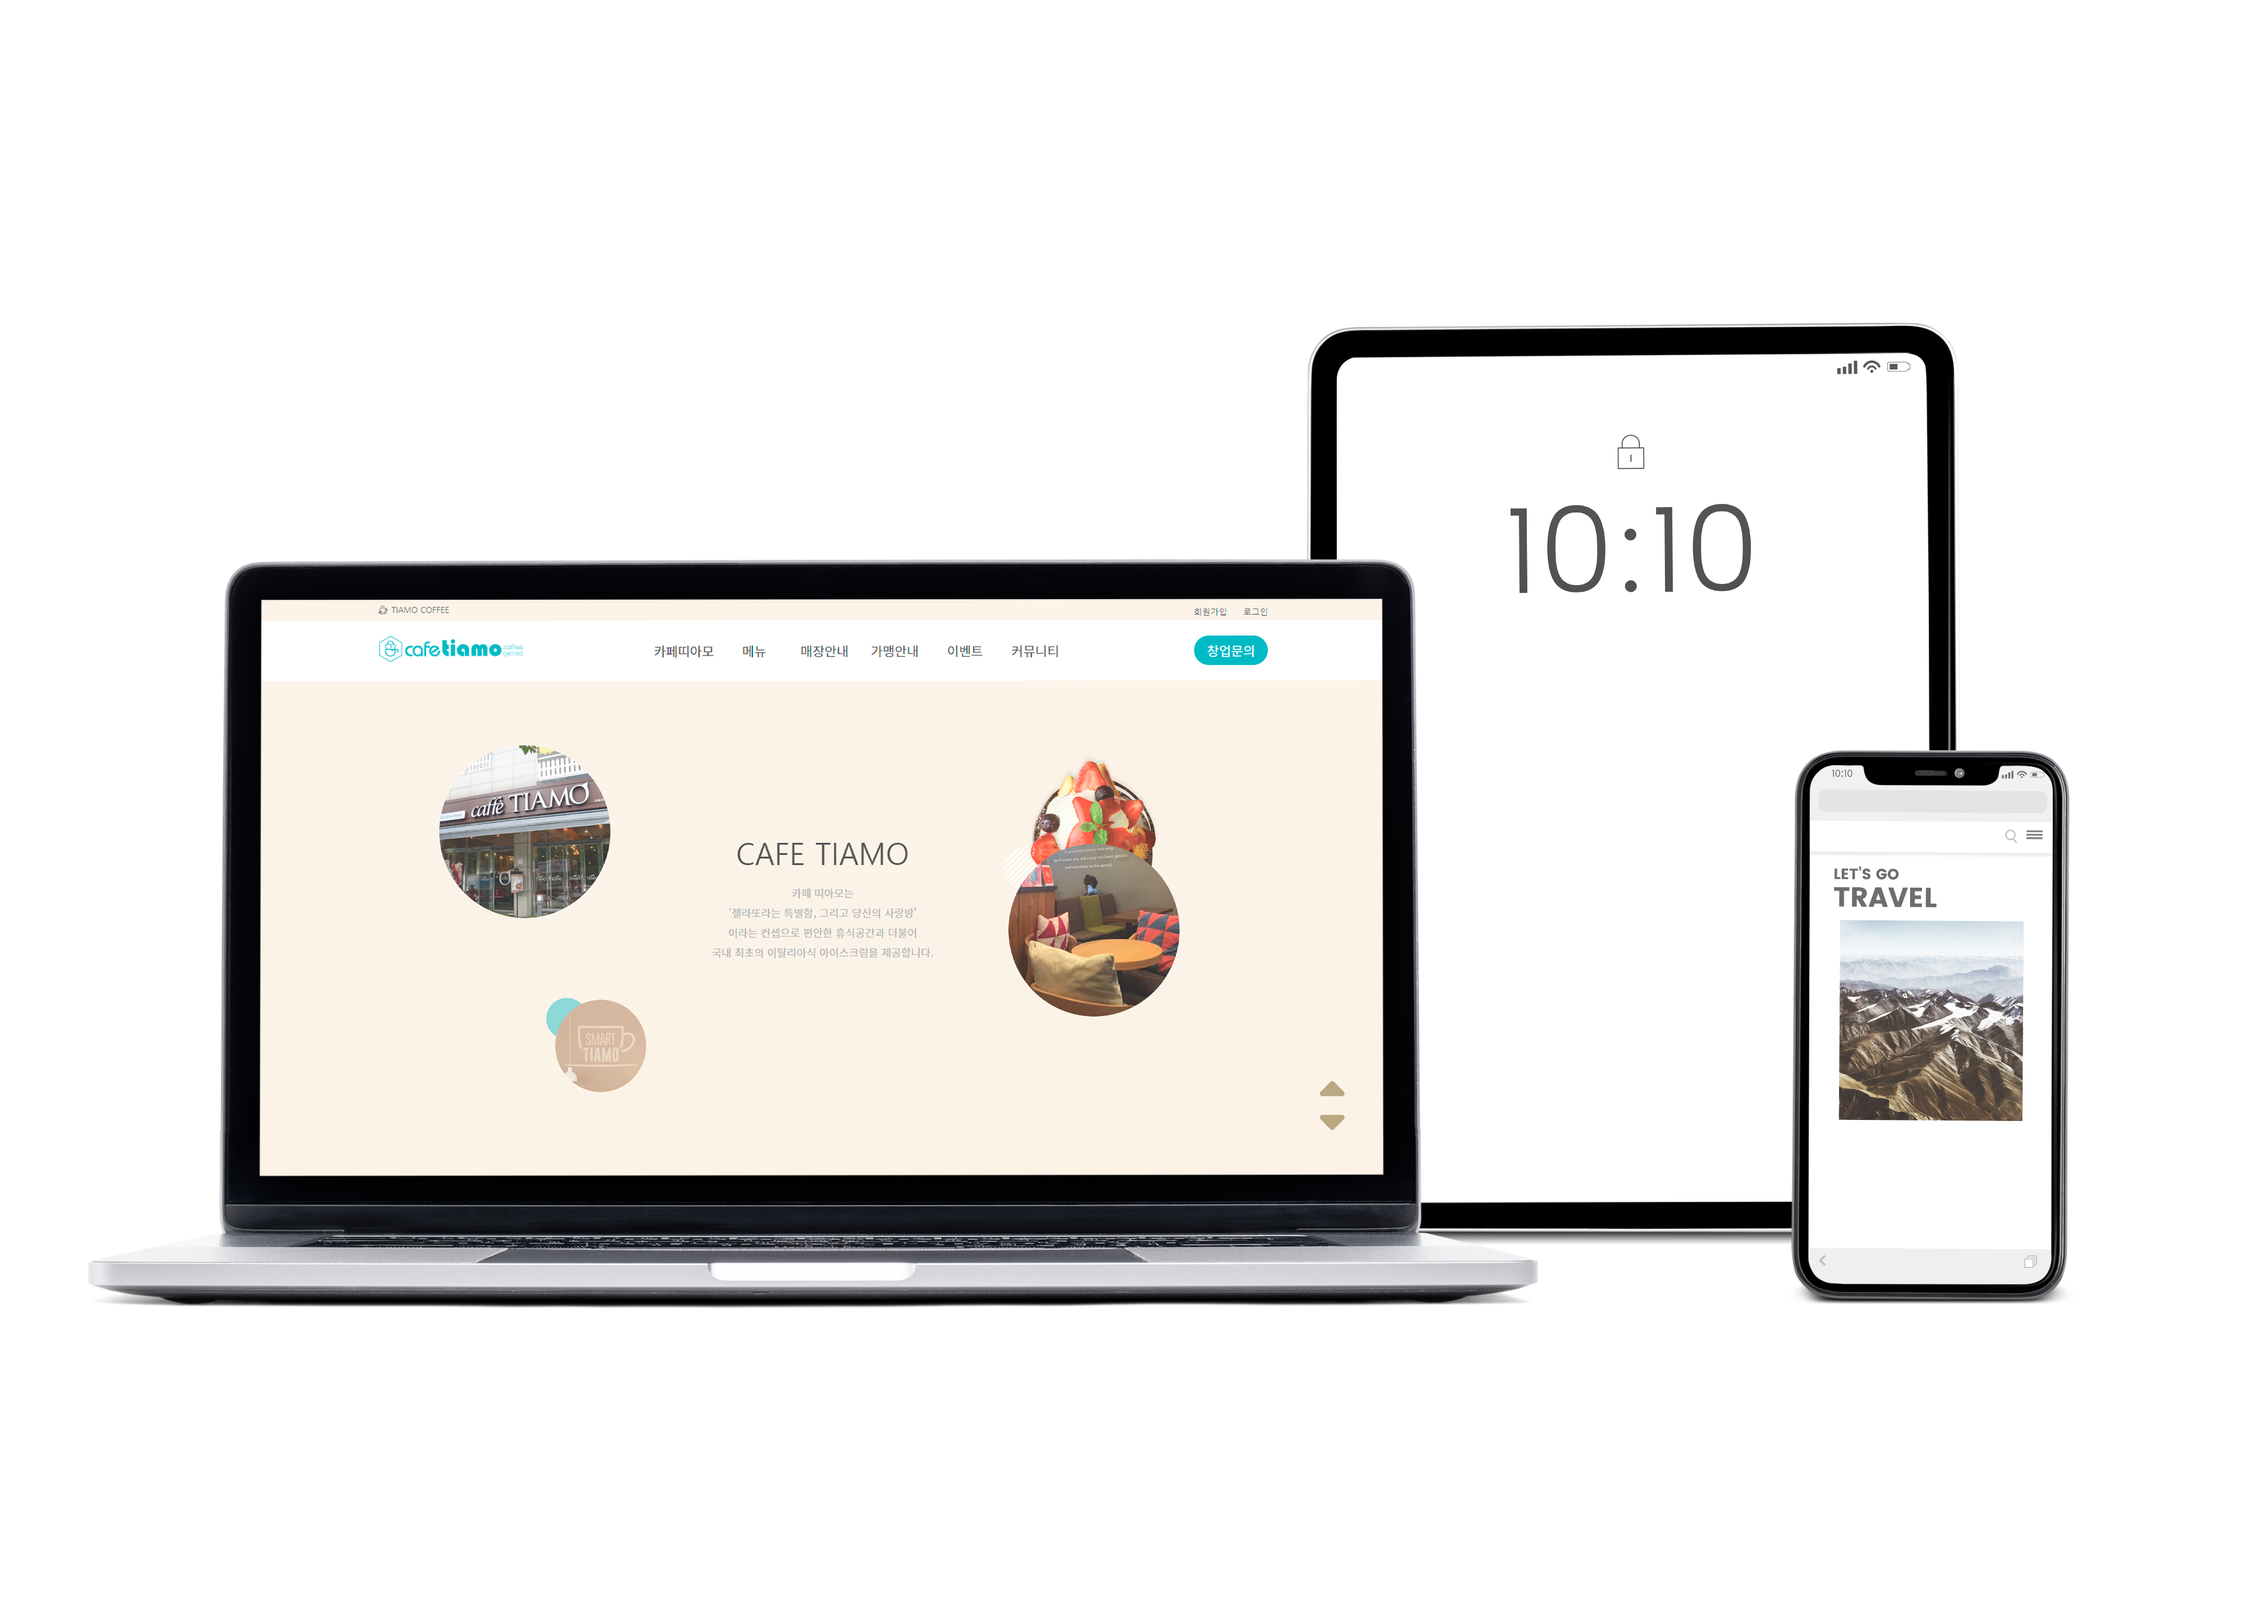
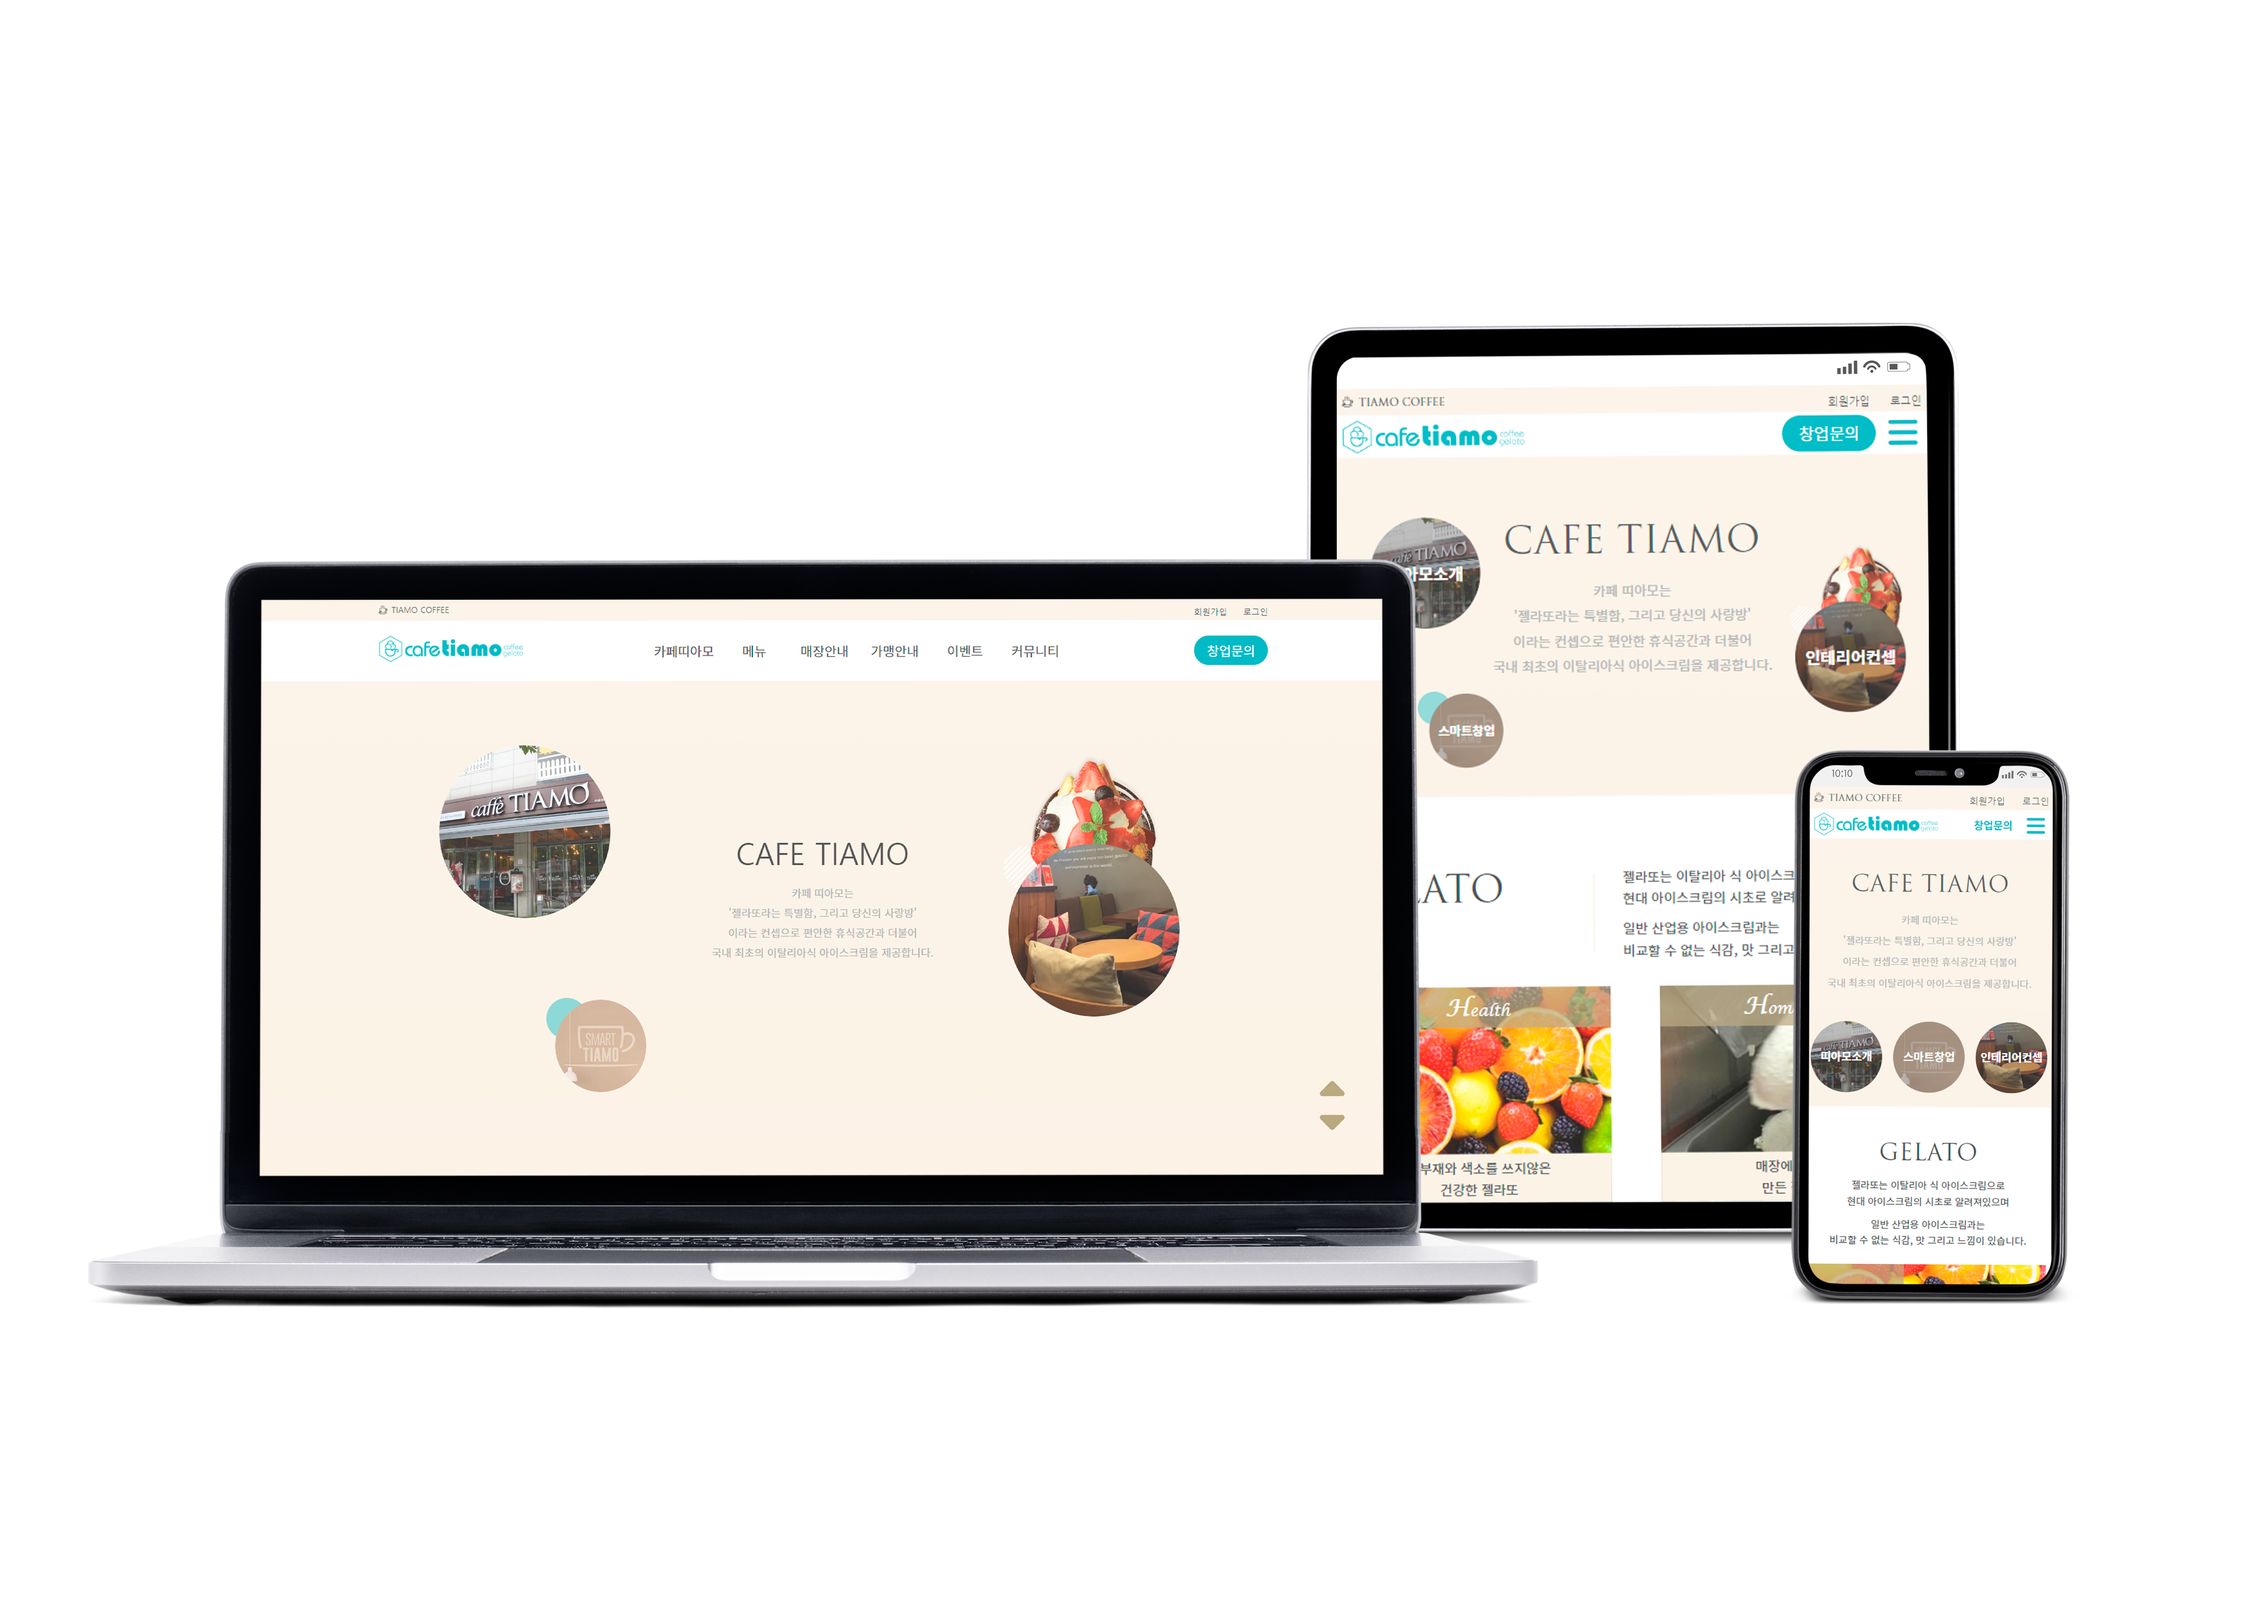
221222_수정

diff --git a/common_sub.css b/common_sub.css
@@ -1,42 +1,26 @@
 @charset 'utf-8';
-@import url(./my_reset.css);
-
-@font-face {
-  font-family: "NanumSquareNeo";
-  src: url(./font/NanumSquareNeo-Variable.woff);
-  font-weight: normal;
-  font-style: normal;
-}
-
-:root {
-  font-family: "NanumSquareNeo";
-  --h: "MyLotteBold";
-  font-weight: normal;
-  font-style: normal;
-  font-size: 16px;
-  color: #333;
-  --m1: #3d91cf;
-  --m2: #f79521;
-  --s2: #edb071;
-  --m3: #974998;
-  --s3: #c390be;
-  --m4: #26ad49;
-  --s4: #84d194;
-  --gray: #ababab;
-  --detailimg: #e0e0e0;
-}
 
 .subpage {
-  position: absolute;
-  top: 200vh;
-  left: 50%;
-  transform: translateX(-50%);
-  width: 90%;
+  display: none;
+  position: fixed;
+  top: 0;
+  width: 100%;
   z-index: 700;
-  background-color: white;
-  overflow: hidden;
+  background-color: rgba(0, 0, 0, 0.8);
+}
+.subpage.on {
+  display: block;
 }
 .subpage .sub {
+  display: none;
+  margin: auto;
+  width: 90%;
+  height: 100vh;
+  background-color: white;
+  overflow: scroll;
+}
+
+.subpage .sub::-webkit-scrollbar {
   display: none;
 }
 .subpage .sub.on {
@@ -91,7 +75,7 @@
   background-repeat: no-repeat;
   border-radius: 30% 70% 70% 30% / 30% 30% 70% 70%;
   animation: rad-move 30s linear infinite;
-  z-index: -1;
+  z-index: 1;
 }
 .subpage .sub_mockup > div:nth-of-type(2) {
   /* border: 1px solid red; */
@@ -100,6 +84,7 @@
   overflow: hidden;
   padding-top: 19%;
   position: relative;
+  z-index: 2;
 }
 .subpage .sub_mockup > div:nth-of-type(2) > img {
   width: 100%;
@@ -108,27 +93,34 @@
   left: 0;
 }
 .subpage .sub_keyword {
-  display: flex;
+  text-align: right;
+  position: absolute;
+  left: 28%;
+  bottom: 15%;
+  z-index: 2;
 }
 .subpage .sub_keyword p {
-  border: 1px solid var(--s3);
+  /* border: 1px solid var(--s3); */
   border-radius: 50px;
   padding: 0.5rem 1rem;
   color: var(--m3);
-  margin: 0 0.5rem;
+  line-height: 20px;
+  font-size: 1.25rem;
 }
 .subpage .sub_btns {
   position: absolute;
-  top: 50%;
+  top: 45%;
   right: 25%;
   transform: translateY(-50%);
   text-align: center;
 }
 .subpage .sub_btns > div {
+  /* border: 1px solid red; */
   padding: 0.35rem 0;
 }
 .subpage .sub_btns > div > a {
   display: inline-block;
+  width: 100%;
   background-color: var(--m3);
   color: white;
   padding: 0.6rem 1.25rem;
@@ -499,13 +491,13 @@
   width: 7vw;
   height: 7vw;
   top: 10%;
-  left: 57%;
+  left: 55%;
   background-color: var(--s3);
   background-size: 1000%;
   background-repeat: no-repeat;
   border-radius: 30% 70% 70% 30% / 30% 30% 70% 70%;
   animation: rad-move 30s linear infinite;
-  z-index: -1;
+  z-index: 2;
 }
 .subpage #sub2_text li:last-of-type p:nth-of-type(2)::before {
   background-color: #f44502;

diff --git a/common2.js b/common2.js
@@ -52,8 +52,8 @@ window.addEventListener("scroll", function (e) {
   if (scrollTop >= 0 && scrollTop < ht * 1) {
     $bubble1.style.cssText = `  top: 9vw;
     left: 40vw; transition: 0.5s;`;
-    $bubble2.style.cssText = `top: 23.5vw;
-    left: 49vw; transition: 0.5s;`;
+    $bubble2.style.cssText = `top: 24.5vw;
+    left: 49.5vw; transition: 0.5s;`;
     $bubble3.style.cssText = ` top: 8vw;
     left: 68vw; transition: 0.5s;`;
     $bubble3sub.style.cssText = ` opacity: 0`;
@@ -170,31 +170,29 @@ $sec4Button.forEach(function (item, idx) {
   });
 });
 
-// 팝업
-// 스크롤이벤트 삭제(페이지 고정), 홈페이지연결, 설명온오프활성화
-
 // sub
-const $body = document.querySelectorAll("header ~ .output");
-const $sec4TextA = document.querySelectorAll(".sec4_text>a");
-const $subpage = document.querySelectorAll(".subpage");
-const $sub = document.querySelectorAll(".subpage >.sub");
+const $sec4TextA = document.querySelectorAll(".sec4_text>button");
+const $subpage = document.querySelector(".subpage");
 const $subTitleBtn = document.querySelectorAll(".sub_title>button");
 const $subOnoffBtn = document.querySelectorAll(".sub_onoff>button");
 const $subBtnOn = document.querySelectorAll(".sub_btnon");
 const $subBtnOff = document.querySelectorAll(".sub_btnoff");
-
+const $sub = document.querySelectorAll(".subpage >.sub");
 $sec4TextA.forEach(function (item, idx) {
   item.addEventListener("click", function (e) {
     e.preventDefault();
+    e.stopPropagation();
+    $subpage.classList.add("on");
     $sub[idx].classList.add("on");
-    // $body.classList.add("black");
-    // $sub.classList.add("scrollLock");
+    document.documentElement.classList.add("scrollLock");
   });
 });
 $subTitleBtn.forEach(function (item, idx) {
   item.addEventListener("click", function (e) {
     e.preventDefault();
+    $subpage.classList.remove("on");
     $sub[idx].classList.remove("on");
+    document.documentElement.classList.remove("scrollLock");
   });
 });
 $subOnoffBtn.forEach(function (item, idx) {

diff --git a/common.css b/common.css
@@ -132,8 +132,8 @@ header .gnb li:hover:nth-of-type(4) a {
 }
 .bubble2 {
   /* border: 1px solid green; */
-  top: 23.5vw;
-  left: 49vw;
+  top: 24.5vw;
+  left: 49.5vw;
   width: 17vw;
   height: 17vw;
   opacity: 0.7;
@@ -213,8 +213,8 @@ header .gnb li:hover:nth-of-type(4) a {
   z-index: 500;
   width: 100vw;
   background-color: white;
-  /* animation: open 4s forwards; */
-  display: none;
+  animation: open 4s forwards;
+  /* display: none; */
 }
 @keyframes open {
   0% {
@@ -580,12 +580,12 @@ header .gnb li:hover:nth-of-type(4) a {
   cursor: pointer;
 }
 #sec4 .sec4_text p,
-#sec4 .sec4_text a {
+#sec4 .sec4_text button {
   font-size: 1.5rem;
   white-space: nowrap;
 }
 #sec4 .sec4_text:hover p,
-#sec4 .sec4_text:hover a {
+#sec4 .sec4_text:hover button {
   font-weight: bold;
 }
 #sec4 .sec4_text p:nth-of-type(1) {
@@ -595,12 +595,15 @@ header .gnb li:hover:nth-of-type(4) a {
 #sec4 .sec4_text p:nth-of-type(2) {
   padding-left: 5%;
 }
-#sec4 .sec4_text a {
+#sec4 .sec4_text button {
   color: var(--m3);
   position: absolute;
   right: 0;
+  cursor: pointer;
+  border: none;
+  background-color: transparent;
 }
-#sec4 .sec4_text a::before {
+#sec4 .sec4_text button::before {
   /* border: 1px solid red; */
   content: "";
   background-image: url(./img/플러스_보라색.png);
@@ -616,7 +619,7 @@ header .gnb li:hover:nth-of-type(4) a {
   z-index: 10;
   transition: 0.4s;
 }
-#sec4 .sec4_text:hover a::before {
+#sec4 .sec4_text:hover button::before {
   transform: translateY(-50%) rotate(180deg);
 }
 #sec4 .sec4_right {

diff --git a/index.html b/index.html
@@ -244,7 +244,7 @@
                 <div class="sec4_text">
                   <p>01</p>
                   <p>카페 띠아모 홈페이지 리뉴얼 프로젝트</p>
-                  <a>자세히보기</a>
+                  <button>자세히보기</button>
                 </div>
               </li>
               <li class="sec4_bigmain">
@@ -255,7 +255,7 @@
                 <div class="sec4_text">
                   <p>02</p>
                   <p>오늘의 라면 홈페이지 리뉴얼 프로젝트</p>
-                  <a>자세히보기</a>
+                  <button>자세히보기</button>
                 </div>
               </li>
               <li class="sec4_bigmain">
@@ -266,7 +266,7 @@
                 <div class="sec4_text">
                   <p>03</p>
                   <p>포시즌스 서울 홈페이지 리뉴얼 프로젝트</p>
-                  <a>자세히보기</a>
+                  <button>자세히보기</button>
                 </div>
               </li>
             </ul>
